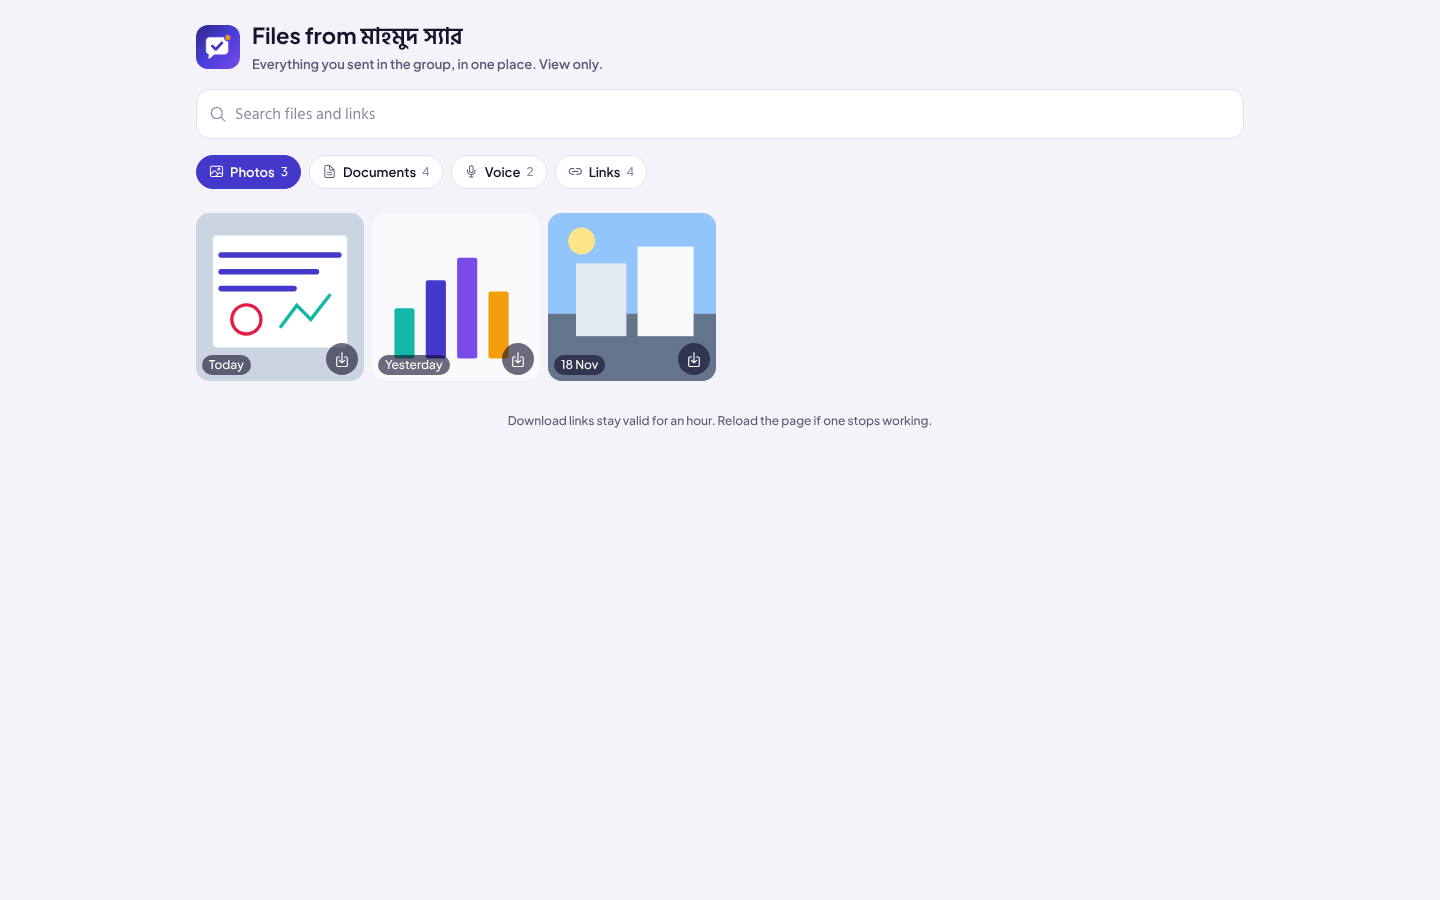
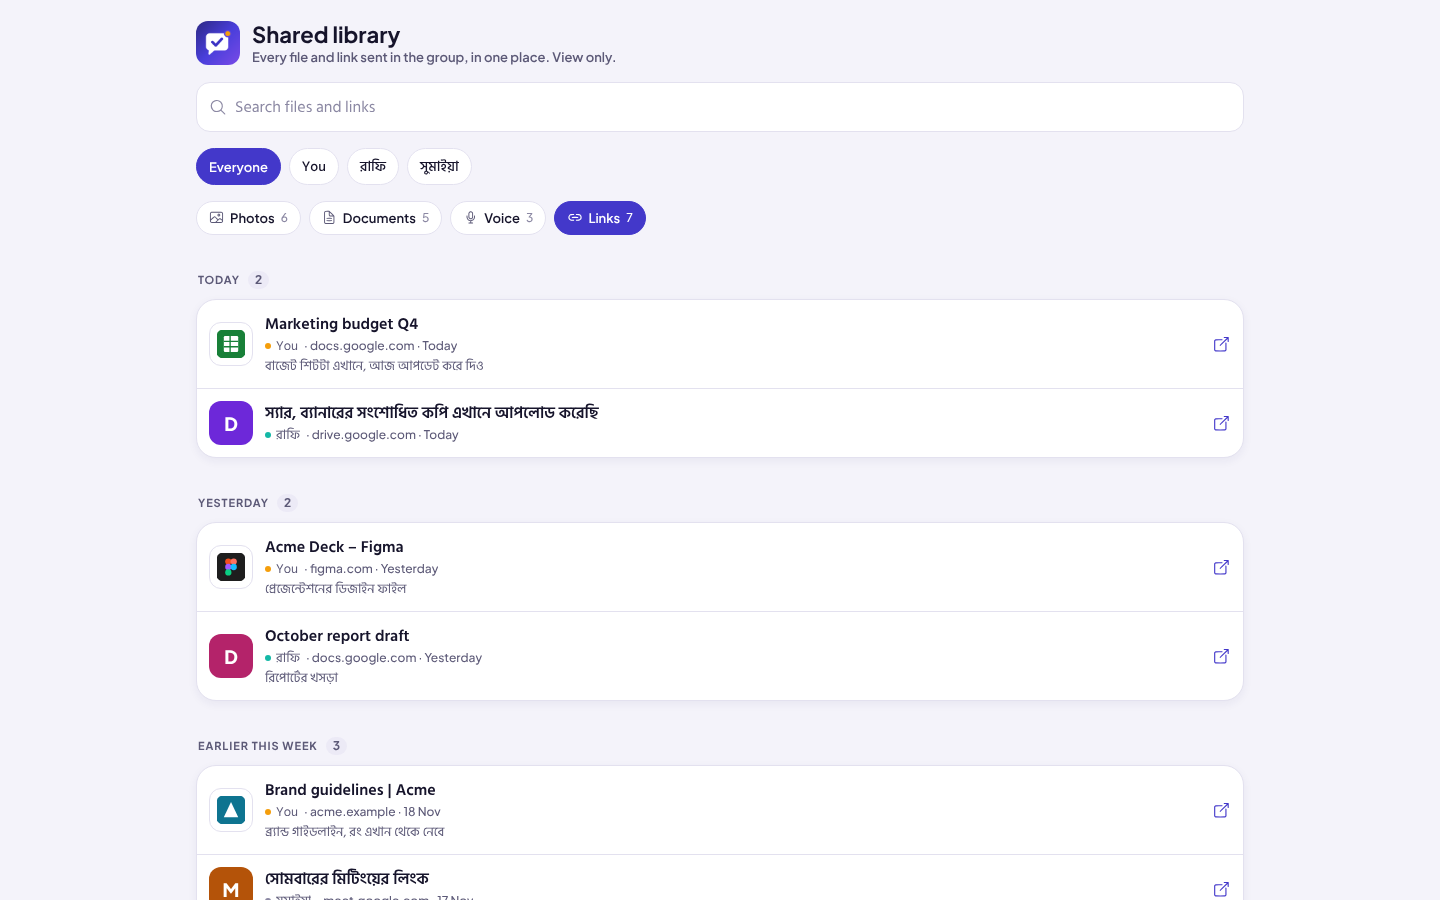
Boss page shows the whole library, with sender labels and a sender filter
Claude-Session: https://claude.ai/code/session_01E3m2fXAVDghodczNW3t8k8

diff --git a/app/src/app/shared/[token].tsx b/app/src/app/shared/[token].tsx
@@ -8,12 +8,13 @@ import { openGallery } from '@/components/Gallery';
 import { ExtBadge, FileName, SiteIcon } from '@/components/library';
 import { Card, Chip, Empty, SectionHeader, Skeleton, Txt, styles, type IconName } from '@/components/ui';
 import * as api from '@/lib/api';
-import type { SharedFile, SharedLibrary, SharedLink } from '@/lib/api';
+import type { SharedFile, SharedLibrary, SharedLink, SharedSender } from '@/lib/api';
 import { dayHeading, fileGroup, fileTitle, fmtDate, fmtDateTime, fmtDuration, fmtSize, splitUrl } from '@/lib/format';
+import { roleColors } from '@/lib/roles';
 import { content, noOutline, radius, space, useTheme } from '@/lib/theme';
 
-// The boss's page: a read-only view of the files and links the boss sent, opened
-// through a private link. No sign-in, nothing here can change anything.
+// The boss's page: a read-only view of the group's whole library (files and links
+// from everyone), opened through a private link. No sign-in, nothing here can change anything.
 
 type Section = 'photo' | 'document' | 'voice' | 'link';
 const SECTIONS: { value: Section; label: string; icon: IconName }[] = [
@@ -31,6 +32,23 @@ function groupByDay<T extends { sent_at: string }>(rows: T[]): [string, T[]][] {
   const out = new Map<string, T[]>();
   for (const row of rows) out.set(dayHeading(row.sent_at), [...(out.get(dayHeading(row.sent_at)) ?? []), row]);
   return [...out.entries()];
+}
+
+/** The reader is the boss, so their own things read "You". */
+const senderLabel = (x: SharedSender) => (x.from === 'boss' ? 'You' : (x.sender_name ?? 'Someone'));
+const senderKey = (x: SharedSender) => (x.from === 'boss' ? 'boss' : `${x.from}:${x.sender_name ?? ''}`);
+
+/** Small coloured dot and name saying who sent a file or link. */
+function Sender({ of }: { of: SharedSender }) {
+  const t = useTheme();
+  const role = of.from === 'owner' ? 'me' : of.from;
+  return (
+    // The name keeps its room; the date and size beside it give way first.
+    <View style={{ flexDirection: 'row', alignItems: 'center', gap: 5, flexShrink: 0, maxWidth: '50%' }}>
+      <View style={{ width: 6, height: 6, borderRadius: 3, backgroundColor: roleColors(t, role).solid }} />
+      <Txt variant="caption" content sub numberOfLines={1} style={{ flexShrink: 1 }}>{senderLabel(of)}</Txt>
+    </View>
+  );
 }
 
 function DownloadButton({ file, onImage }: { file: SharedFile; onImage?: boolean }) {
@@ -65,7 +83,10 @@ function FileRowView({ file, last }: { file: SharedFile; last: boolean }) {
       <ExtBadge file={file} size={44} />
       <View style={{ flex: 1, minWidth: 0 }}>
         <FileName name={fileTitle(file)} strong />
-        <Txt variant="caption" sub numberOfLines={1}>{file.url ? meta : `Too large to keep a copy · ${fmtDate(file.sent_at)}`}</Txt>
+        <View style={{ flexDirection: 'row', alignItems: 'center', gap: 6 }}>
+          <Sender of={file} />
+          <Txt variant="caption" sub numberOfLines={1} style={{ flexShrink: 1 }}>· {file.url ? meta : `Too large to keep a copy · ${fmtDate(file.sent_at)}`}</Txt>
+        </View>
         {file.caption ? <Txt variant="caption" content sub numberOfLines={1}>{file.caption}</Txt> : null}
       </View>
       {file.url ? (
@@ -88,7 +109,10 @@ function VoiceRow({ file, last }: { file: SharedFile; last: boolean }) {
         </View>
         <View style={{ flex: 1 }}>
           <Txt variant="body" strong>Voice message</Txt>
-          <Txt variant="caption" sub>{[file.duration_seconds ? fmtDuration(file.duration_seconds) : null, fmtDateTime(file.sent_at)].filter(Boolean).join(' · ')}</Txt>
+          <View style={{ flexDirection: 'row', alignItems: 'center', gap: 6 }}>
+            <Sender of={file} />
+            <Txt variant="caption" sub numberOfLines={1} style={{ flexShrink: 1 }}>· {[file.duration_seconds ? fmtDuration(file.duration_seconds) : null, fmtDateTime(file.sent_at)].filter(Boolean).join(' · ')}</Txt>
+          </View>
         </View>
         <DownloadButton file={file} />
       </View>
@@ -116,7 +140,10 @@ function LinkRowView({ link, last }: { link: SharedLink; last: boolean }) {
       <SiteIcon link={link} size={44} />
       <View style={{ flex: 1, minWidth: 0 }}>
         <Txt variant="body" content strong numberOfLines={1}>{link.title || said || `${host}${rest}`}</Txt>
-        <Txt variant="caption" sub numberOfLines={1}>{host} · {fmtDate(link.sent_at)}</Txt>
+        <View style={{ flexDirection: 'row', alignItems: 'center', gap: 6 }}>
+          <Sender of={link} />
+          <Txt variant="caption" sub numberOfLines={1} style={{ flexShrink: 1 }}>· {host} · {fmtDate(link.sent_at)}</Txt>
+        </View>
         {link.title && said ? <Txt variant="caption" content sub numberOfLines={1}>{said}</Txt> : null}
       </View>
       <Ionicons name="open-outline" size={18} color={t.primary} />
@@ -133,6 +160,7 @@ export default function SharedLibraryPage() {
   const [error, setError] = useState<'invalid' | 'failed' | null>(null);
   const [section, setSection] = useState<Section>('photo');
   const [query, setQuery] = useState('');
+  const [who, setWho] = useState('all');
 
   useEffect(() => {
     // Keep the private address out of the Referer header of every link opened from here.
@@ -173,12 +201,12 @@ export default function SharedLibraryPage() {
 
   const q = query.trim().toLowerCase();
   const files = useMemo(
-    () => (data?.files ?? []).filter((f) => !q || `${fileTitle(f)} ${f.caption ?? ''} ${f.transcript ?? ''}`.toLowerCase().includes(q)),
-    [data, q],
+    () => (data?.files ?? []).filter((f) => (who === 'all' || senderKey(f) === who) && (!q || `${fileTitle(f)} ${f.caption ?? ''} ${f.transcript ?? ''} ${f.sender_name ?? ''}`.toLowerCase().includes(q))),
+    [data, q, who],
   );
   const links = useMemo(
-    () => (data?.links ?? []).filter((l) => !q || `${l.url} ${l.title ?? ''} ${l.said ?? ''}`.toLowerCase().includes(q)),
-    [data, q],
+    () => (data?.links ?? []).filter((l) => (who === 'all' || senderKey(l) === who) && (!q || `${l.url} ${l.title ?? ''} ${l.said ?? ''} ${l.sender_name ?? ''}`.toLowerCase().includes(q))),
+    [data, q, who],
   );
   const counts: Record<Section, number> = {
     photo: files.filter((f) => fileGroup(f) === 'photo').length,
@@ -187,6 +215,12 @@ export default function SharedLibraryPage() {
     link: links.length,
   };
   const shown = files.filter((f) => fileGroup(f) === section);
+  // One chip per person who sent something: the reader first, then the rest by name.
+  const people = useMemo(() => {
+    const seen = new Map<string, SharedSender>();
+    for (const x of [...(data?.files ?? []), ...(data?.links ?? [])]) if (!seen.has(senderKey(x))) seen.set(senderKey(x), x);
+    return [...seen.entries()].sort(([a, x], [b, y]) => (a === 'boss' ? -1 : b === 'boss' ? 1 : senderLabel(x).localeCompare(senderLabel(y))));
+  }, [data]);
 
   const pageWidth = Math.min(windowWidth, 1080);
   const inner = pageWidth - space.lg * 2;
@@ -195,7 +229,7 @@ export default function SharedLibraryPage() {
   const photos = shown.filter((f) => f.url);
   const openPhoto = (file: SharedFile) =>
     openGallery(
-      photos.map((p) => ({ key: p.id, uri: p.url!, title: fileTitle(p), sender: data?.boss_name ?? null, role: 'boss' as const, date: fmtDateTime(p.sent_at) })),
+      photos.map((p) => ({ key: p.id, uri: p.url!, title: fileTitle(p), sender: senderLabel(p), role: p.from === 'owner' ? ('me' as const) : p.from, date: fmtDateTime(p.sent_at) })),
       Math.max(0, photos.findIndex((p) => p.id === file.id)),
     );
 
@@ -205,8 +239,8 @@ export default function SharedLibraryPage() {
         <View style={{ flexDirection: 'row', alignItems: 'center', gap: space.md }}>
           <Image source={require('../../../assets/icon.png')} style={{ width: 44, height: 44, borderRadius: 12 }} accessibilityIgnoresInvertColors />
           <View style={{ flex: 1 }}>
-            <Txt variant="title">{data?.boss_name ? <>Files from <Txt variant="title" content>{data.boss_name}</Txt></> : 'Shared files'}</Txt>
-            <Txt variant="label" sub>Everything you sent in the group, in one place. View only.</Txt>
+            <Txt variant="title">Shared library</Txt>
+            <Txt variant="label" sub>Every file and link sent in the group, in one place. View only.</Txt>
           </View>
         </View>
 
@@ -237,6 +271,12 @@ export default function SharedLibraryPage() {
               {query ? <Ionicons name="close-circle" size={18} color={t.faint} onPress={() => setQuery('')} accessibilityLabel="Clear search" /> : null}
             </View>
 
+            {people.length > 1 ? (
+              <ScrollView horizontal showsHorizontalScrollIndicator={false} contentContainerStyle={{ gap: space.sm }}>
+                <Chip label="Everyone" active={who === 'all'} onPress={() => setWho('all')} />
+                {people.map(([key, x]) => <Chip key={key} label={senderLabel(x)} content active={who === key} onPress={() => setWho(key)} />)}
+              </ScrollView>
+            ) : null}
             <ScrollView horizontal showsHorizontalScrollIndicator={false} contentContainerStyle={{ gap: space.sm }}>
               {SECTIONS.map((s) => <Chip key={s.value} icon={s.icon} label={s.label} count={counts[s.value]} active={section === s.value} onPress={() => setSection(s.value)} />)}
             </ScrollView>
@@ -264,8 +304,10 @@ export default function SharedLibraryPage() {
                     accessibilityLabel={`View ${fileTitle(f)}, sent ${fmtDate(f.sent_at)}`}
                     style={({ pressed }) => [{ width: tile, height: tile, borderRadius: radius.md, overflow: 'hidden', backgroundColor: t.surfaceAlt, alignItems: 'center', justifyContent: 'center' }, pressed && styles.pressed]}>
                     {f.url ? <Image source={{ uri: f.url }} style={{ width: tile, height: tile }} resizeMode="cover" /> : <Txt variant="caption" sub style={{ textAlign: 'center', padding: 8 }}>Not kept</Txt>}
-                    <View style={{ position: 'absolute', left: 6, bottom: 6, paddingHorizontal: 7, paddingVertical: 2, borderRadius: radius.pill, backgroundColor: 'rgba(15,12,40,0.6)' }}>
-                      <Txt variant="caption" color="#FFFFFF">{fmtDate(f.sent_at)}</Txt>
+                    <View style={{ position: 'absolute', left: 6, bottom: 6, right: 44, alignItems: 'flex-start' }}>
+                      <View style={{ maxWidth: '100%', paddingHorizontal: 7, paddingVertical: 2, borderRadius: radius.pill, backgroundColor: 'rgba(15,12,40,0.6)' }}>
+                        <Txt variant="caption" content color="#FFFFFF" numberOfLines={1}>{senderLabel(f)} · {fmtDate(f.sent_at)}</Txt>
+                      </View>
                     </View>
                     <View style={{ position: 'absolute', right: 6, bottom: 6 }}><DownloadButton file={f} onImage /></View>
                   </Pressable>

diff --git a/supabase/functions/share/index.ts b/supabase/functions/share/index.ts
@@ -1,8 +1,8 @@
 import { db, json, recordError } from "../_shared/util.ts";
 
-// The boss's page: given a valid share link token, returns the files and links the
-// boss sent (never the owner's own, never tasks or notes). No sign-in; the token is
-// the whole credential, so every query here is filtered server-side.
+// The boss's page: given a valid share link token, returns the whole library of the
+// group (files and links from everyone, each labelled with who sent it), and never
+// tasks, notes or anything else. No sign-in; the token is the whole credential.
 const CORS = {
   "Access-Control-Allow-Origin": "*",
   "Access-Control-Allow-Headers": "authorization, apikey, content-type, x-client-info",
@@ -43,26 +43,26 @@ async function handle(req: Request): Promise<Response> {
     const { data: cfg } = await supabase.from("app_config").select("owner_tg_id,boss_tg_id,boss_name").eq("id", 1).single();
     if (!cfg?.owner_tg_id) return json({ error: "invalid" }, 404);
     // Same rule as the app: the chosen boss, or everyone except the owner while none is chosen.
-    const fromBoss = (m: MessageInfo | null) =>
-      !!m && m.sender_tg_id !== null && m.sender_tg_id !== cfg.owner_tg_id &&
-      (cfg.boss_tg_id === null || m.sender_tg_id === cfg.boss_tg_id);
+    const roleOf = (m: MessageInfo): "boss" | "owner" | "other" =>
+      m.sender_tg_id === cfg.owner_tg_id ? "owner"
+        : m.sender_tg_id !== null && (cfg.boss_tg_id === null || m.sender_tg_id === cfg.boss_tg_id) ? "boss" : "other";
 
     const { data: fileRows, error: fileErr } = await supabase.from("files")
       .select("id,kind,file_name,mime_type,size_bytes,duration_seconds,storage_path,status,created_at,messages!inner(sender_tg_id,sender_name,sent_at,text,transcript)")
-      .order("created_at", { ascending: false }).limit(MAX_ROWS * 4);
+      .order("created_at", { ascending: false }).limit(MAX_ROWS);
     if (fileErr) throw fileErr;
     const { data: linkRows, error: linkErr } = await supabase.from("links")
       .select("id,url,domain,title,description,image_url,favicon_url,created_at,messages!inner(sender_tg_id,sender_name,sent_at,text)")
-      .order("created_at", { ascending: false }).limit(MAX_ROWS * 4);
+      .order("created_at", { ascending: false }).limit(MAX_ROWS);
     if (linkErr) throw linkErr;
 
     const one = <T>(m: T | T[] | null): T | null => (Array.isArray(m) ? (m[0] ?? null) : m);
     const files = (fileRows ?? [])
       .map((f) => ({ ...f, message: one(f.messages as unknown as MessageInfo | MessageInfo[] | null) }))
-      .filter((f) => fromBoss(f.message)).slice(0, MAX_ROWS);
+      .filter((f): f is typeof f & { message: MessageInfo } => f.message !== null);
     const links = (linkRows ?? [])
       .map((l) => ({ ...l, message: one(l.messages as unknown as MessageInfo | MessageInfo[] | null) }))
-      .filter((l) => fromBoss(l.message)).slice(0, MAX_ROWS);
+      .filter((l): l is typeof l & { message: MessageInfo } => l.message !== null);
 
     const paths = files.filter((f) => f.status === "stored" && f.storage_path).map((f) => f.storage_path as string);
     const urls = new Map<string, string>();
@@ -84,15 +84,18 @@ async function handle(req: Request): Promise<Response> {
         mime_type: f.mime_type,
         size_bytes: f.size_bytes,
         duration_seconds: f.duration_seconds,
-        sent_at: f.message!.sent_at,
-        caption: f.message!.text,
-        transcript: f.message!.transcript,
+        sent_at: f.message.sent_at,
+        sender_name: f.message.sender_name,
+        from: roleOf(f.message),
+        caption: f.message.text,
+        transcript: f.message.transcript,
         // Absent when the file was too large for the bot to keep, or failed to store.
         url: f.storage_path ? (urls.get(f.storage_path) ?? null) : null,
       })),
       links: links.map((l) => ({
         id: l.id, url: l.url, domain: l.domain, title: l.title, description: l.description,
-        image_url: l.image_url, favicon_url: l.favicon_url, sent_at: l.message!.sent_at, said: l.message!.text,
+        image_url: l.image_url, favicon_url: l.favicon_url, sent_at: l.message.sent_at, said: l.message.text,
+        sender_name: l.message.sender_name, from: roleOf(l.message),
       })),
     });
   } catch (e) {

diff --git a/app/src/lib/demo.ts b/app/src/lib/demo.ts
@@ -329,16 +329,18 @@ export const demoApi = {
     };
     return delay(demoShare);
   },
-  /** What the boss's page shows: only what the boss sent. */
+  /** What the boss's page shows: the whole library, labelled by sender. */
   shared: () =>
     delay({
       boss_name: BOSS_NAME,
-      files: files.filter((f) => f.sender_tg_id === BOSS).map((f) => ({
+      files: files.map((f) => ({
+        sender_name: f.sender_name, from: f.sender_tg_id === BOSS ? ('boss' as const) : f.sender_tg_id === ME ? ('owner' as const) : ('other' as const),
         id: f.id, kind: f.kind, file_name: f.file_name, mime_type: f.mime_type, size_bytes: f.size_bytes,
         duration_seconds: f.duration_seconds, sent_at: f.sent_at, caption: f.text, transcript: f.transcript,
         url: f.status === 'stored' && f.storage_path ? (demoSignedUrl(f.storage_path) ?? 'https://example.com/file') : null,
       })),
-      links: links.filter((l) => l.sender_tg_id === BOSS).map((l) => ({
+      links: links.map((l) => ({
+        sender_name: l.sender_name, from: l.sender_tg_id === BOSS ? ('boss' as const) : l.sender_tg_id === ME ? ('owner' as const) : ('other' as const),
         id: l.id, url: l.url, domain: l.domain, title: l.title, description: l.description,
         image_url: l.image_url, favicon_url: l.favicon_url, sent_at: l.sent_at, said: l.text,
       })),

diff --git a/app/src/app/settings.tsx b/app/src/app/settings.tsx
@@ -182,7 +182,7 @@ export default function SettingsScreen() {
   };
   const bossPage = (
         <Card style={{ gap: space.lg }}>
-          <Txt variant="caption" sub>A private web page where your boss can browse and download the files and links they sent. They see nothing of yours, and cannot change anything. Anyone who has the link can open it, so share it only with your boss.</Txt>
+          <Txt variant="caption" sub>A private web page where your boss can browse and download every file and link in the library, yours and everyone else's included. Tasks, notes and your private notes are never shown, and nothing can be changed. Anyone who has the link can open it, so share it only with your boss.</Txt>
           {share ? (
             <>
               <View style={{ gap: 4 }}>

diff --git a/app/src/lib/api.ts b/app/src/lib/api.ts
@@ -340,7 +340,7 @@ export type SharedFile = {
   caption: string | null;
   transcript: string | null;
   url: string | null;
-};
+} & SharedSender;
 export type SharedLink = {
   id: string;
   url: string;
@@ -351,7 +351,9 @@ export type SharedLink = {
   favicon_url: string | null;
   sent_at: string;
   said: string | null;
-};
+} & SharedSender;
+/** Who sent it, from the boss's point of view: themselves, the owner, or someone else in the group. */
+export type SharedSender = { sender_name: string | null; from: 'boss' | 'owner' | 'other' };
 export type SharedLibrary = { boss_name: string | null; files: SharedFile[]; links: SharedLink[] };
 
 /** What a share link shows. `invalid` covers a wrong, revoked or expired link alike. */

diff --git a/README.md b/README.md
@@ -67,7 +67,7 @@ GitHub-এ রিপোর **Settings → Secrets and variables → Actions → 
 
 ### বসের জন্য পাতা
 
-অ্যাপের **Settings → Page for your boss** থেকে একটি গোপন লিংক বানানো যায়। সেই লিংকে বস লগইন ছাড়াই নিজের পাঠানো ছবি, ডকুমেন্ট, ভয়েস ও লিংক দেখতে ও ডাউনলোড করতে পারেন। আপনার নিজের কিছুই সেখানে দেখা যায় না, আর লিংক যেকোনো সময় বাতিল করা যায়। এটা চালাতে ওয়েব ভার্সন ডিপ্লয় করা থাকতে হবে।
+অ্যাপের **Settings → Page for your boss** থেকে একটি গোপন লিংক বানানো যায়। সেই লিংকে বস লগইন ছাড়াই পুরো লাইব্রেরি (সবার পাঠানো ছবি, ডকুমেন্ট, ভয়েস ও লিংক) দেখতে ও ডাউনলোড করতে পারেন। কাজ, নোট ও ব্যক্তিগত মন্তব্য দেখা যায় না, আর লিংক যেকোনো সময় বাতিল করা যায়। এটা চালাতে ওয়েব ভার্সন ডিপ্লয় করা থাকতে হবে।
 
 ### ৪. প্রথমবার ব্যবহার
 
